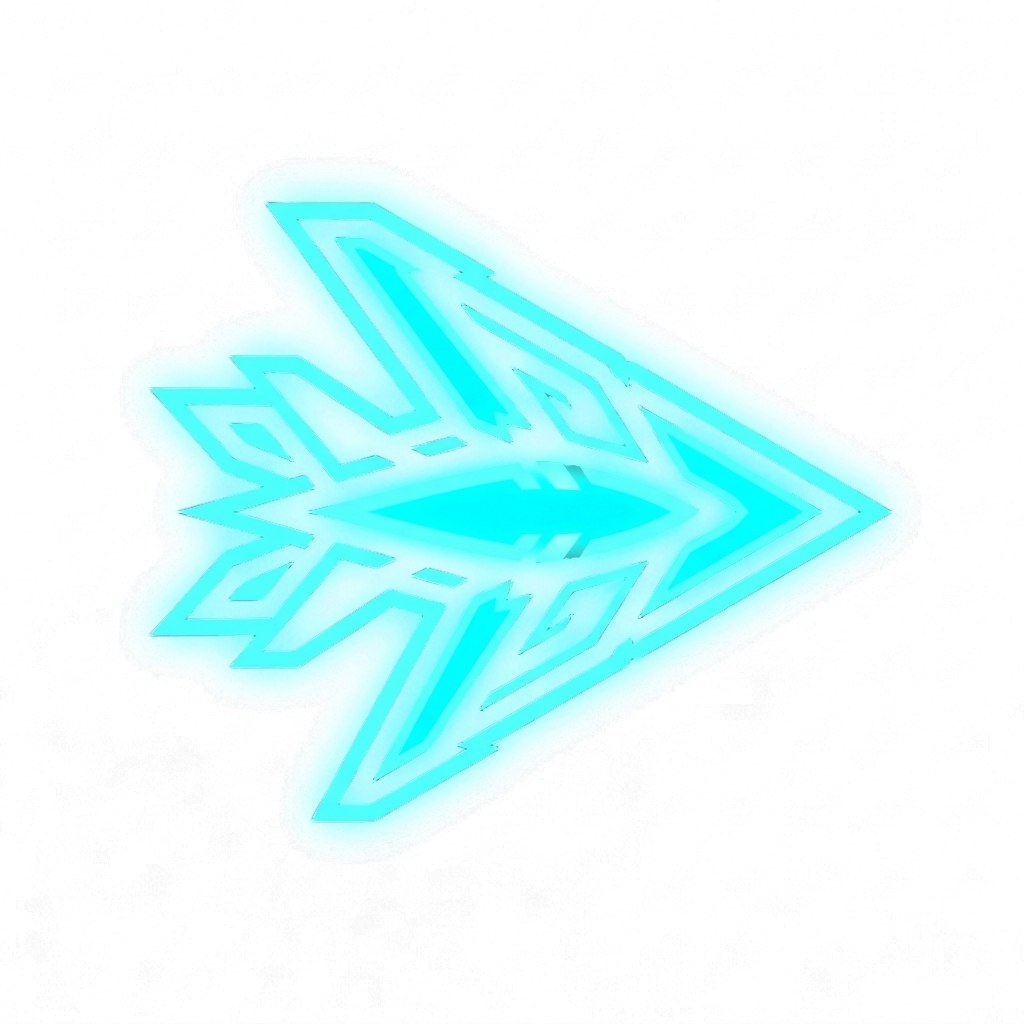
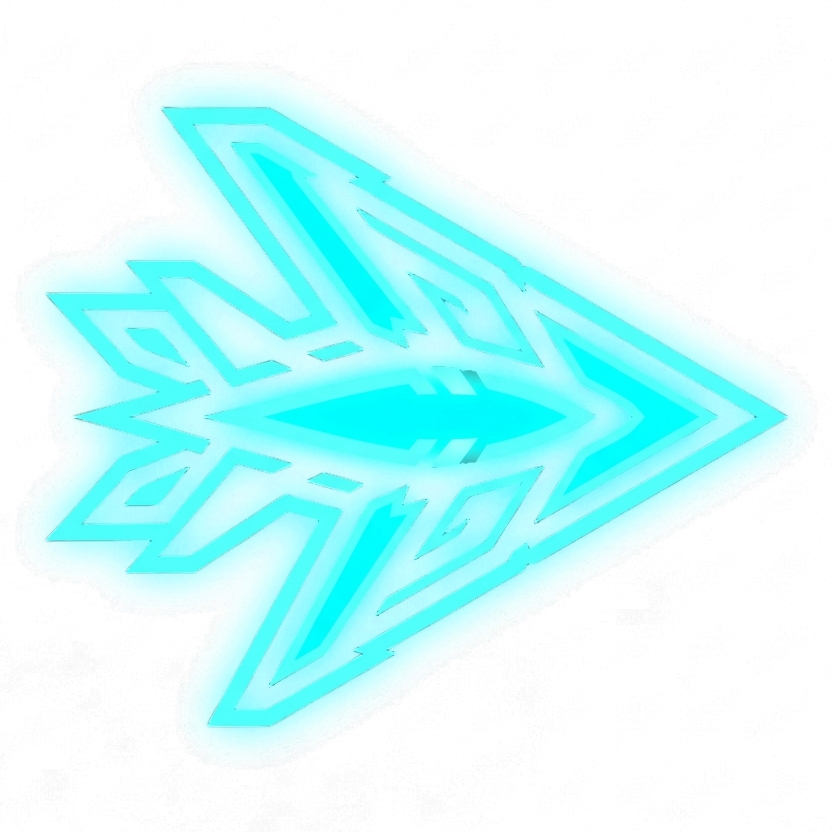
Render the actual character sprites in-game, not just the menu
Swap the in-game player from a flat clip-path shape to the generated
sprite art, scaled well above the hit radius (SPRITE_VISUAL_SCALE in
ui.ts) so the 1024px source doesn't downscale into a muddy blob at the
old ~30px hitbox size — collision math is untouched, only the visual
size changed. Shield ring and dash-ghost trails now scale and use the
sprite too, so they stay proportioned to the character.

Vanguard/Phantom were generated in a directional pose and keep rotating
to face travel, same as the old clip-path shapes. Titan is a front-facing
portrait — rotating it looked broken (sideways/upside-down depending on
direction), so it now stays upright and mirrors horizontally instead via
a `.facing-left` class and matching flipped keyframe variants
(CharacterDef.directionalSprite drives the split).

Sprites were also autocropped to their alpha bounding box (they had a
lot of transparent padding from generation) so the visual sizing math
holds consistently across all three. Unused `CharacterDef.clipPath`
field removed now that nothing renders it.

Verified live via Playwright: all 3 characters, all 4 directions, and a
dash mid-move — zero console/page errors, Titan confirmed upright in
every direction.

diff --git a/src/ui.ts b/src/ui.ts
@@ -57,32 +57,51 @@ export function clampToBounds(x: number, y: number, margin: number) {
 }
 
 // --- player / shield ring rendering (CSS elements, not Babylon meshes) -------
+// The in-game sprite is rendered well above the hit radius — a character
+// sprite downscaled to the actual ~22-36px hitbox reads as a muddy blob, so
+// visual size and collision size are deliberately decoupled (collision still
+// uses the raw hit radius everywhere in main.ts; only this file's on-screen
+// sizing uses the scaled-up version).
+const SPRITE_VISUAL_SCALE = 3.2;
+function visualRadius(hitRadius: number) {
+  return hitRadius * SPRITE_VISUAL_SCALE;
+}
+
 export function renderPlayerEl(
-  radius: number,
+  char: CharacterDef,
   playerPos: { x: number; y: number },
   facing: { x: number; y: number },
   isMoving: boolean
 ) {
+  const r = visualRadius(char.radius);
   const { sx, sy } = worldToScreen(playerPos.x, playerPos.y);
-  playerEl.style.setProperty("translate", `${sx - radius}px ${sy - radius}px`);
-  const angleDeg = (Math.atan2(-facing.y, facing.x) * 180) / Math.PI;
-  playerEl.style.setProperty("rotate", `${angleDeg}deg`);
+  playerEl.style.setProperty("translate", `${sx - r}px ${sy - r}px`);
+  if (char.directionalSprite) {
+    const angleDeg = (Math.atan2(-facing.y, facing.x) * 180) / Math.PI;
+    playerEl.style.setProperty("rotate", `${angleDeg}deg`);
+  } else {
+    // front-facing art (e.g. a humanoid) — stay upright, mirror left/right instead of rotating
+    playerEl.style.setProperty("rotate", "0deg");
+    if (facing.x !== 0) playerEl.classList.toggle("facing-left", facing.x < 0);
+  }
   playerEl.classList.toggle("moving", isMoving);
 }
 
 export function updateShieldRingPosition(characterRadius: number, playerPos: { x: number; y: number }) {
-  const r = characterRadius * SHIELD_RING.radiusMultiplier;
+  const r = visualRadius(characterRadius) * SHIELD_RING.radiusMultiplier;
   const { sx, sy } = worldToScreen(playerPos.x, playerPos.y);
   shieldRingEl.style.setProperty("translate", `${sx - r}px ${sy - r}px`);
 }
 
 export function applyCharacterVisual(char: CharacterDef) {
   playerEl.dataset.character = char.id;
+  playerEl.classList.remove("facing-left");
   playerEl.style.setProperty("--char-color", char.color);
-  playerEl.style.width = `${char.radius * 2}px`;
-  playerEl.style.height = `${char.radius * 2}px`;
-  playerEl.style.clipPath = char.clipPath;
-  const ringSize = char.radius * 2 * SHIELD_RING.radiusMultiplier;
+  playerEl.style.setProperty("--char-sprite", `url(${char.spriteUrl})`);
+  const size = visualRadius(char.radius) * 2;
+  playerEl.style.width = `${size}px`;
+  playerEl.style.height = `${size}px`;
+  const ringSize = size * SHIELD_RING.radiusMultiplier;
   shieldRingEl.style.width = `${ringSize}px`;
   shieldRingEl.style.height = `${ringSize}px`;
   characterInfoEl.textContent = char.description;
@@ -129,14 +148,17 @@ export function spawnBurst(x: number, y: number, cssColor: string, sizePx: numbe
 export function spawnDashGhost(x: number, y: number, char: CharacterDef) {
   const ghost = document.createElement("div");
   ghost.className = "dash-ghost";
-  const r = char.radius;
+  const r = visualRadius(char.radius);
   ghost.style.width = `${r * 2}px`;
   ghost.style.height = `${r * 2}px`;
-  ghost.style.background = char.color;
-  ghost.style.clipPath = char.clipPath;
+  ghost.style.backgroundImage = `url(${char.spriteUrl})`;
+  ghost.style.filter = `drop-shadow(0 0 6px ${char.color})`;
   const { sx, sy } = worldToScreen(x, y);
   ghost.style.setProperty("translate", `${sx - r}px ${sy - r}px`);
   ghost.style.setProperty("rotate", playerEl.style.getPropertyValue("rotate"));
+  if (!char.directionalSprite && playerEl.classList.contains("facing-left")) {
+    ghost.style.setProperty("scale", "-1 1");
+  }
   document.body.appendChild(ghost);
   setTimeout(() => ghost.remove(), 260);
 }

diff --git a/src/style.css b/src/style.css
@@ -34,7 +34,10 @@ body {
   top: 0;
   left: 0;
   z-index: 5;
-  background: var(--char-color, #6cf0ff);
+  background-image: var(--char-sprite);
+  background-size: contain;
+  background-repeat: no-repeat;
+  background-position: center;
   filter: drop-shadow(0 0 10px var(--char-color, #6cf0ff)) drop-shadow(0 0 20px var(--char-color, #6cf0ff));
   transition: rotate 90ms linear;
   pointer-events: none;
@@ -57,9 +60,10 @@ body {
 /* idle/movement feel per character — animates the `scale` individual transform
    property only, which composes independently of the `translate`/`rotate`
    properties main.ts drives every frame, so nothing fights the JS-driven
-   positioning. Shapes are drawn pointing along local +X (see clipPath comment
-   in entities.ts), so scaling x up/y down here reads as a stretch along
-   whatever direction `rotate` currently points. */
+   positioning. Vanguard/Phantom sprites were generated facing right and
+   rotate to face travel (see CharacterDef.directionalSprite in entities.ts);
+   Titan is a front-facing portrait that stays upright and gets a `.facing-left`
+   class instead, so its stretch/breathing keyframes come in mirrored (-x) pairs. */
 #player {
   animation: idleVanguard 2.6s ease-in-out infinite;
 }
@@ -68,6 +72,9 @@ body {
 }
 #player[data-character="titan"] {
   animation: idleTitan 3.4s ease-in-out infinite;
+}
+#player[data-character="titan"].facing-left {
+  animation: idleTitanFlip 3.4s ease-in-out infinite;
 }
 
 #player.moving {
@@ -78,6 +85,9 @@ body {
 }
 #player.moving[data-character="titan"] {
   animation: moveTitan 0.75s ease-in-out infinite;
+}
+#player.moving[data-character="titan"].facing-left {
+  animation: moveTitanFlip 0.75s ease-in-out infinite;
 }
 
 /* Vanguard — steady hover breathing; a quick forward-stretch while dashing/moving, like a ship under thrust */
@@ -102,14 +112,23 @@ body {
   50% { scale: 0.94 1.1; opacity: 1; }
 }
 
-/* Titan — slow heavy breathing at rest; a stomping squash-and-stretch while moving, like a tank rolling forward */
+/* Titan — slow heavy breathing at rest; a stomping squash-and-stretch while moving, like a tank rolling forward.
+   Flip variants are the same curves with x negated, for facing left (Titan never rotates, see comment above). */
 @keyframes idleTitan {
   0%, 100% { scale: 1 1; }
   50% { scale: 1.03 0.97; }
 }
+@keyframes idleTitanFlip {
+  0%, 100% { scale: -1 1; }
+  50% { scale: -1.03 0.97; }
+}
 @keyframes moveTitan {
   0%, 100% { scale: 1.1 0.92; }
   50% { scale: 0.95 1.06; }
+}
+@keyframes moveTitanFlip {
+  0%, 100% { scale: -1.1 0.92; }
+  50% { scale: -0.95 1.06; }
 }
 
 .dash-ghost {
@@ -119,6 +138,9 @@ body {
   z-index: 4;
   pointer-events: none;
   opacity: 0.5;
+  background-size: contain;
+  background-repeat: no-repeat;
+  background-position: center;
   animation: dashGhostFade 260ms ease-out forwards;
 }
 

diff --git a/src/entities.ts b/src/entities.ts
@@ -29,9 +29,11 @@ export interface CharacterDef {
   dashCooldownMs: number;
   dashEffect: DashEffect;
   dashRadiusMultiplier?: number; // shockwave only: kill radius = radius * this
-  clipPath: string; // CSS clip-path polygon, drawn pointing right (0 deg = facing +X)
   description: string; // shown on the character-select screen
-  spriteUrl: string; // portrait art for select screen / library, not used in-game (too small to read detail)
+  spriteUrl: string; // character art — rendered in-game (scaled well above hit radius for readability) and on the select screen
+  directionalSprite: boolean; // true: art was generated facing right, rotate to face travel like the old clip-path shapes did.
+  // false: art is a front-facing portrait (e.g. a humanoid) — rotating it to face travel looks broken (sideways/upside-down),
+  // so it stays upright and only mirrors horizontally for left vs right instead.
 }
 
 export const CHARACTERS: CharacterDef[] = [
@@ -45,9 +47,9 @@ export const CHARACTERS: CharacterDef[] = [
     dashDistance: 150,
     dashCooldownMs: 1400,
     dashEffect: "pierce",
-    clipPath: "polygon(100% 50%, 0% 0%, 28% 50%, 0% 100%)", // arrow/ship — balanced
     description: "Cân bằng. Tốc độ & máu vừa phải. Dash Xuyên Phá: phá hủy mọi quái vật nằm trên đường lướt.",
     spriteUrl: vanguardSprite,
+    directionalSprite: true,
   },
   {
     id: "phantom",
@@ -59,9 +61,9 @@ export const CHARACTERS: CharacterDef[] = [
     dashDistance: 190,
     dashCooldownMs: 1000,
     dashEffect: "phase",
-    clipPath: "polygon(50% 0%, 100% 50%, 50% 100%, 0% 50%)", // slim diamond — fast, fragile
     description: "Nhanh & mỏng manh (chỉ 2 máu), hồi Dash rất ngắn. Dash Ẩn Thân: không phá quái, nhưng bất tử tức thời để né đòn.",
     spriteUrl: phantomSprite,
+    directionalSprite: true,
   },
   {
     id: "titan",
@@ -74,16 +76,16 @@ export const CHARACTERS: CharacterDef[] = [
     dashCooldownMs: 1900,
     dashEffect: "shockwave",
     dashRadiusMultiplier: 5.5,
-    clipPath: "polygon(25% 0%, 75% 0%, 100% 50%, 75% 100%, 25% 100%, 0% 50%)", // hexagon — tanky, slow
     description: "To xác, chậm, nhiều máu nhất (4 máu). Dash Chấn Động: nổ ra một vùng lớn quanh điểm đáp, phá hủy mọi quái vật trong bán kính đó.",
     spriteUrl: titanSprite,
+    directionalSprite: false,
   },
 ];
 
 export const SHIELD_RING = {
   color: "#4fd8ff",
   thickness: 3, // px
-  radiusMultiplier: 1.6, // relative to the active character's radius
+  radiusMultiplier: 1.15, // relative to the character's on-screen sprite size (see SPRITE_VISUAL_SCALE in ui.ts), not the hit radius
 };
 
 export const DARK_ORB = {

diff --git a/src/main.ts b/src/main.ts
@@ -116,7 +116,7 @@ initLibrary();
 
 let playerPos = { x: 0, y: 0 };
 let facing = { x: 0, y: 1 };
-renderPlayerEl(selectedCharacter.radius, playerPos, facing, false);
+renderPlayerEl(selectedCharacter, playerPos, facing, false);
 
 // --- best score (persisted) --------------------------------------------------
 const BEST_SCORE_KEY = "shadowdash-best-score";
@@ -214,7 +214,7 @@ function tryDash() {
   );
   playerPos.x = clamped.x;
   playerPos.y = clamped.y;
-  renderPlayerEl(selectedCharacter.radius, playerPos, facing, true);
+  renderPlayerEl(selectedCharacter, playerPos, facing, true);
 
   let killedCount = 0;
 
@@ -487,7 +487,7 @@ scene.onBeforeRenderObservable.add(() => {
   const dt = Math.min(engine.getDeltaTime() / 1000, 1 / 30);
 
   if (state !== "playing") {
-    renderPlayerEl(selectedCharacter.radius, playerPos, facing, false);
+    renderPlayerEl(selectedCharacter, playerPos, facing, false);
     return;
   }
 
@@ -519,7 +519,7 @@ scene.onBeforeRenderObservable.add(() => {
     playerPos.x = clamped.x;
     playerPos.y = clamped.y;
   }
-  renderPlayerEl(selectedCharacter.radius, playerPos, facing, isMoving);
+  renderPlayerEl(selectedCharacter, playerPos, facing, isMoving);
 
   // dash cooldown badge, with time remaining
   const cooldownLeftMs = runStats.dashCooldownMs - (performance.now() - lastDashAt);